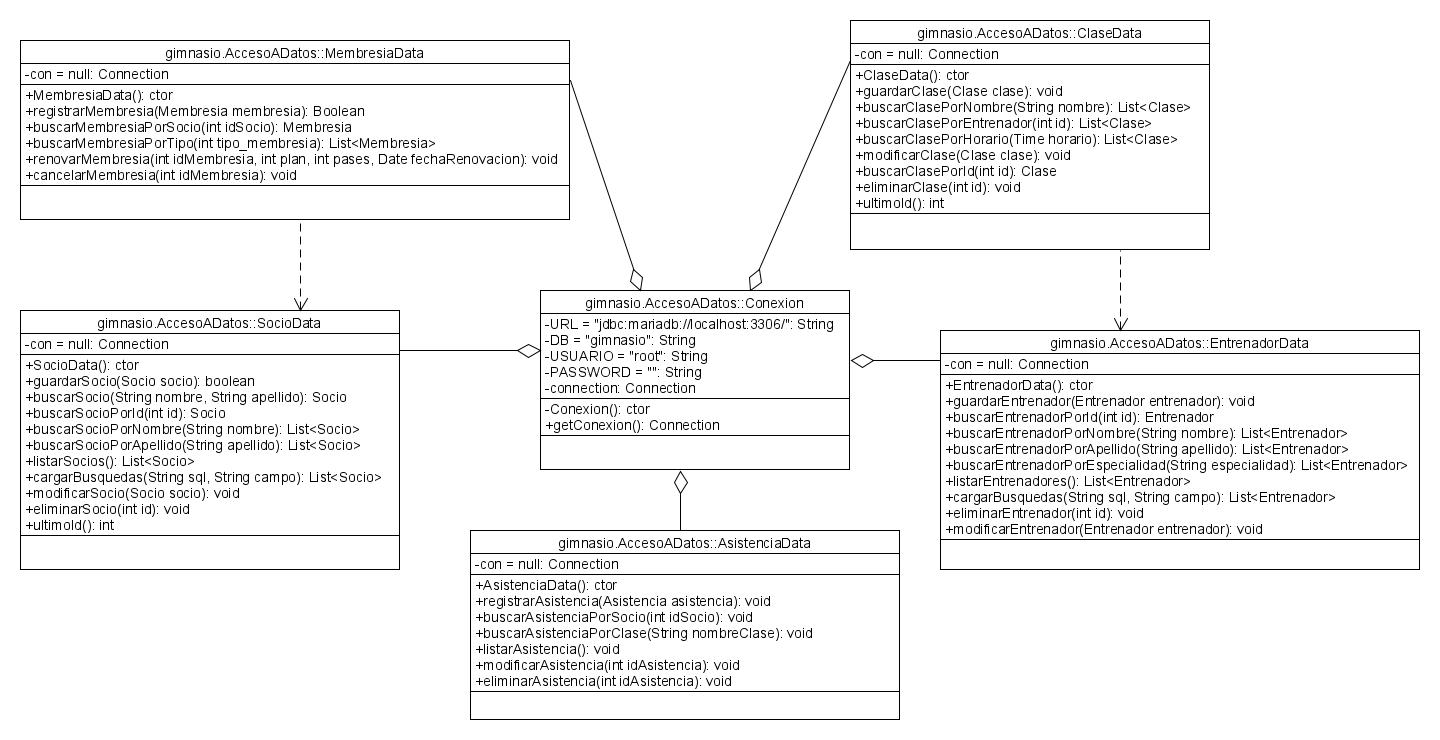
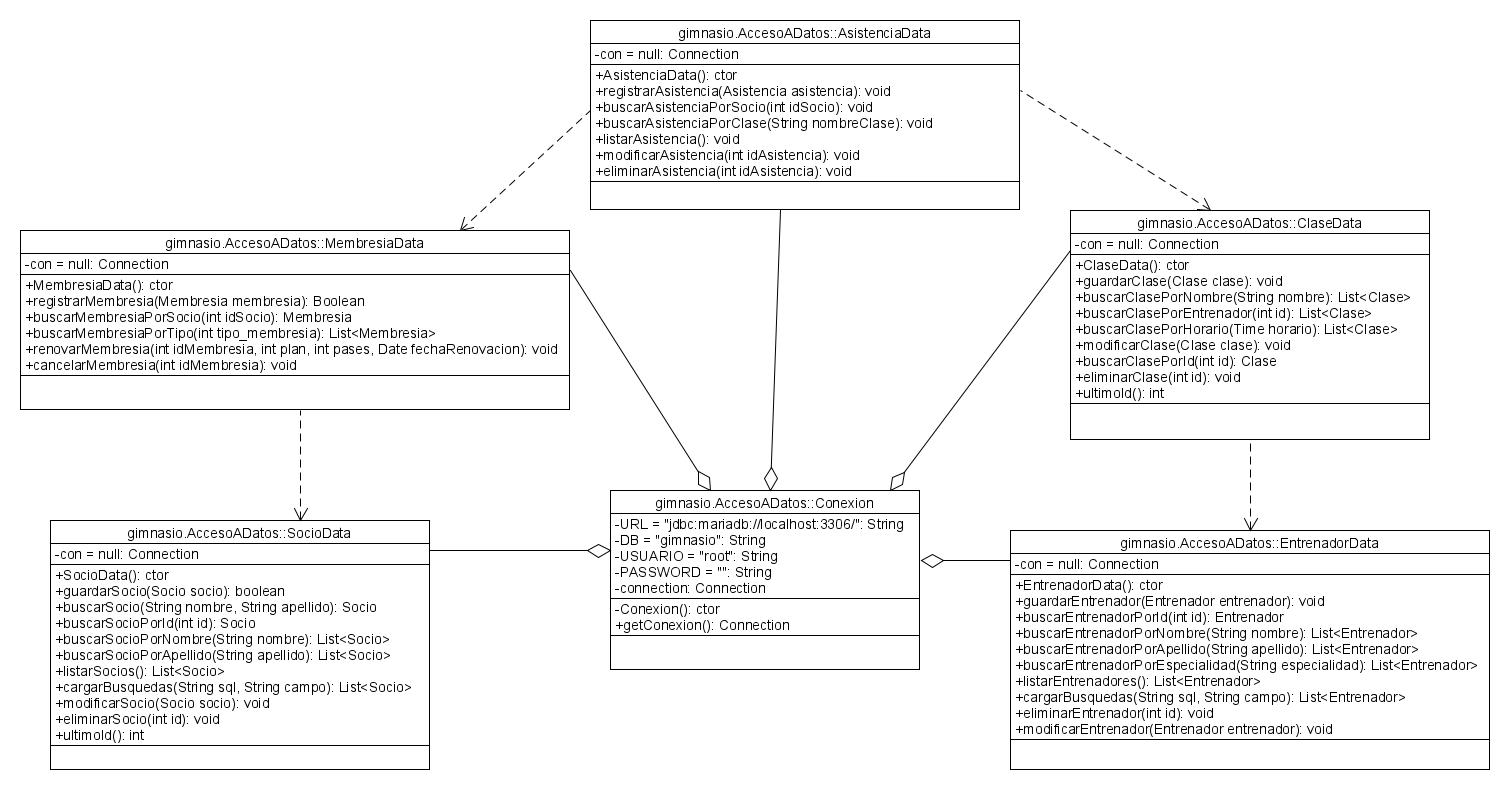
Nueva actualizacion UML y AsistenciaData

Changed region(s): [[0.0, 0.0, 1.0, 0.9635]]

diff --git a/src/gimnasio/AccesoADatos/AsistenciaData.java b/src/gimnasio/AccesoADatos/AsistenciaData.java
@@ -1,12 +1,14 @@
 
 package gimnasio.AccesoADatos;
 
-import gimnasio.Entidades.Asistencia;
+import gimnasio.Entidades.*;
 import java.sql.Connection;
 import java.sql.PreparedStatement;
 import java.sql.ResultSet;
 import java.sql.SQLException;
 import java.sql.Statement;
+import java.util.ArrayList;
+import java.util.List;
 import javax.swing.JOptionPane;
 
 /**
@@ -58,8 +60,45 @@ public class AsistenciaData {
     public void buscarAsistenciaPorClase(String nombreClase){
     }
     
-    public void listarAsistencia(){
+    public List<Asistencia> listarAsistencia(){
+        List<Asistencia> asistencias;
+        String sql = "SELECT * FROM asistencia WHERE estado = ?";
+        String campo = "1";
+        asistencias = cargarBusquedas(sql, campo);
+    return asistencias;    
     }
+      
+    public List<Asistencia> cargarBusquedas(String sql, String campo){ 
+        PreparedStatement ps;
+        ResultSet rs;
+        List<Asistencia> asistencias2 = new ArrayList<>();
+        try {
+            ps = con.prepareStatement(sql);
+            ps.setString(1, campo);
+            rs = ps.executeQuery();
+            
+            while(rs.next()){
+                Asistencia asistencia = new Asistencia();
+                SocioData socioData = new SocioData();
+                ClaseData claseData = new ClaseData();
+                asistencia.setId_asistencia(rs.getInt(1));
+                asistencia.setId_socio(socioData.buscarSocioPorId(rs.getInt("id_socio")));
+                asistencia.setId_clase(claseData.buscarClasePorId(rs.getInt("id_clase")));
+                asistencia.setFecha_asistencia(rs.getDate("fecha_asistencia"));
+                asistencia.setHora_asistencia(rs.getTime("hora_asistencia"));
+                asistencia.setEstado(rs.getBoolean("estado"));
+                asistencias2.add(asistencia);
+            }
+            ps.close();
+            
+        } catch (SQLException ex) {
+            JOptionPane.showMessageDialog(null, "Error al acceder a la tabla: "+ex.getMessage()); 
+        }catch(NullPointerException e){
+            JOptionPane.showMessageDialog(null, "Error  \n"+e.getMessage()); 
+        }
+        return asistencias2;
+    }
+    
     
     public void modificarAsistencia(int idAsistencia){
     }
@@ -86,7 +125,7 @@ public boolean membresiaActiva(int idSocio) {
 }
 
 public boolean verificarCapacidadClase(int ID_Clase) {
-    String sql = "SELECT COUNT(*) AS Inscritos, Capacidad FROM Asistencia JOIN Clase ON Asistencia.ID_Clase = Clase.ID_Clase WHERE Asistencia.ID_Clase = ?";
+    String sql = "SELECT COUNT(*) AS Asistencia, capacidad FROM asistencia JOIN Clase ON Asistencia.ID_Clase = Clase.ID_Clase WHERE Asistencia.ID_Clase = ?";
     boolean capacidadDisponible = false;
     try (PreparedStatement ps = con.prepareStatement(sql)) {
         ps.setInt(1, ID_Clase);

diff --git a/src/gimnasio/Entidades/Asistencia.java b/src/gimnasio/Entidades/Asistencia.java
@@ -86,7 +86,7 @@ public class Asistencia {
 
     @Override
     public String toString() {
-        return "Asistencia{" + "id_asistencia=" + id_asistencia + ", id_socio=" + id_socio + ", id_clase=" + id_clase + ", fecha_asistencia=" + fecha_asistencia + ", hora_asistencia=" + hora_asistencia + ", estado=" + estado + '}';
+        return "ID Asistencia = " + id_asistencia + " | ID Socio = " + id_socio + " | ID Clase = " + id_clase + ", fecha_asistencia=" + fecha_asistencia + ", hora_asistencia=" + hora_asistencia + ", estado=" + estado + '}';
     }
 
     

diff --git a/src/gimnasio/Gimnasio.java b/src/gimnasio/Gimnasio.java
@@ -252,9 +252,13 @@ public class Gimnasio {
 //          System.out.println("Estado membresia: "+(membresiaA.isEstado()));
 //    }
     
-    //
-  
-    
+    //probando listar asistencias
+    List<Asistencia> listaAsistenciaN;
+    AsistenciaData asistenciaDataN = new AsistenciaData();
+    listaAsistenciaN = asistenciaDataN.listarAsistencia();
+        for (Asistencia asistencia : listaAsistenciaN) {
+            System.out.println(asistencia.toString());
+        }
     
 
 
